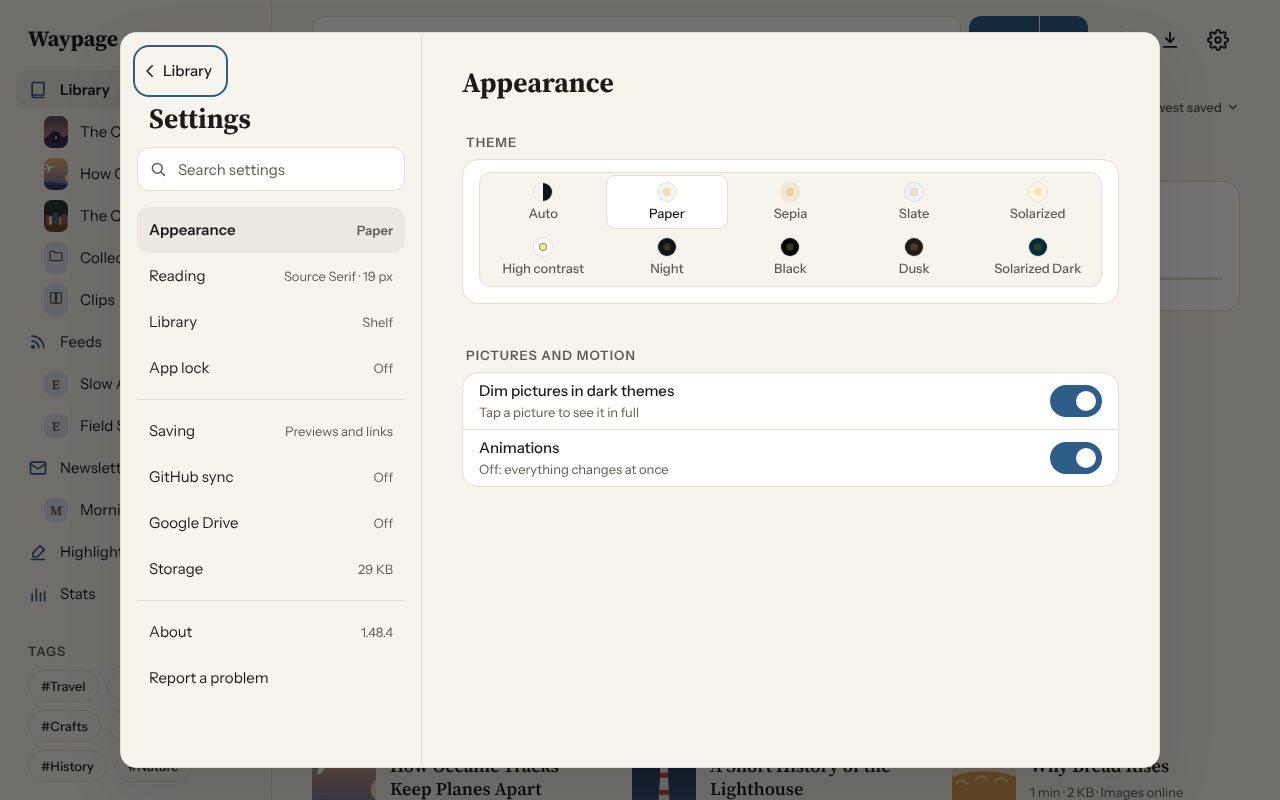
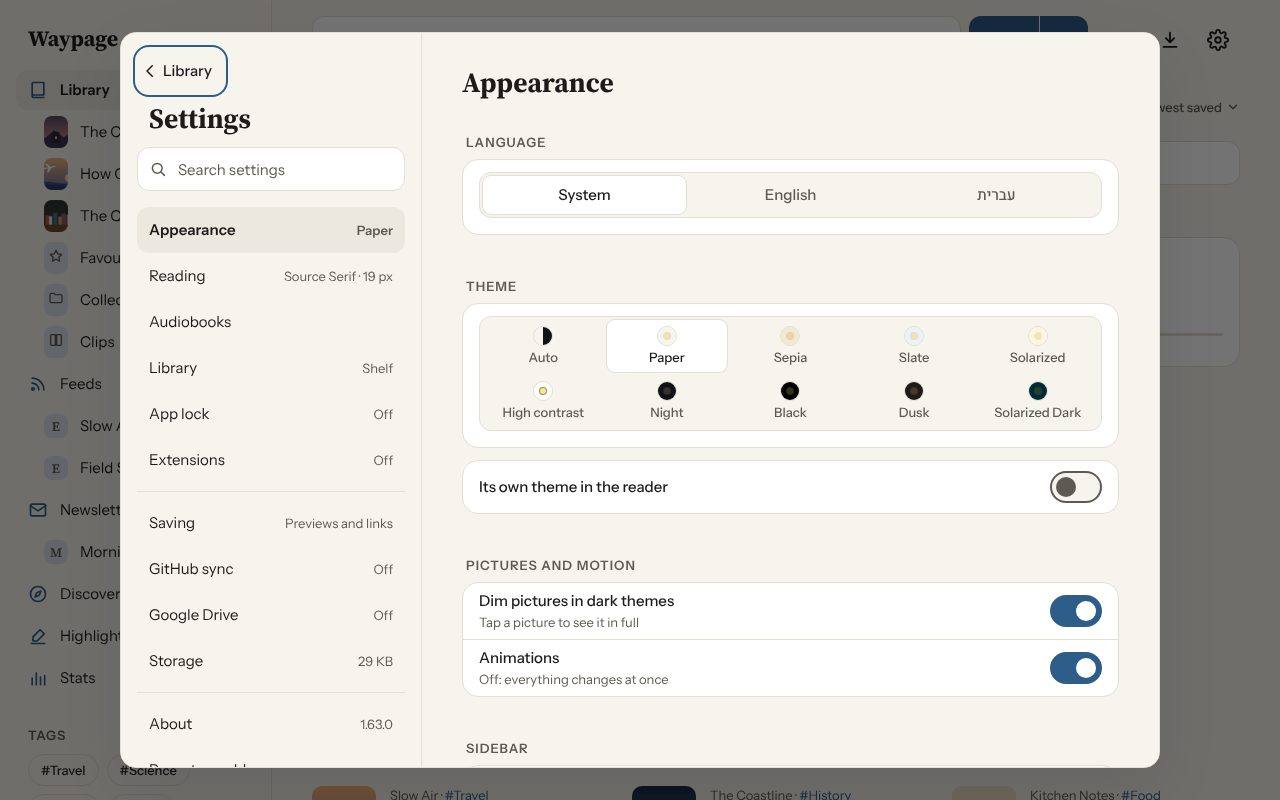
Release 1.63.0: Waypage in Hebrew
Claude-Session: https://claude.ai/code/session_01CFeKrm5qVwMVQBvXeW9dd4

diff --git a/index.html b/index.html
@@ -9,14 +9,14 @@
   <link rel="manifest" href="manifest.json">
   <link rel="icon" href="icon.svg" type="image/svg+xml">
   <link rel="apple-touch-icon" href="icons/apple-touch-icon.png">
-  <script src="src/keel/errlog.js?v=1.62.0" data-key="waypage.log" data-keep="60" data-console></script>
-  <script src="src/boot.js?v=1.62.0"></script>
-  <script src="src/keel/i18n.js?v=1.62.0"></script>
-  <script src="src/language.js?v=1.62.0"></script>
+  <script src="src/keel/errlog.js?v=1.63.0" data-key="waypage.log" data-keep="60" data-console></script>
+  <script src="src/boot.js?v=1.63.0"></script>
+  <script src="src/keel/i18n.js?v=1.63.0"></script>
+  <script src="src/language.js?v=1.63.0"></script>
   <link rel="preload" href="src/fonts/InstrumentSans.woff2" as="font" type="font/woff2" crossorigin>
   <link rel="preload" href="src/fonts/SourceSerif4.woff2" as="font" type="font/woff2" crossorigin>
-  <link rel="stylesheet" href="src/fonts.css?v=1.62.0">
-  <link rel="stylesheet" href="src/styles.css?v=1.62.0">
+  <link rel="stylesheet" href="src/fonts.css?v=1.63.0">
+  <link rel="stylesheet" href="src/styles.css?v=1.63.0">
 </head>
 <body>
   <div class="app" id="libraryView">
@@ -439,55 +439,55 @@
     </div>
   </section>
 
-  <script src="src/keel/platform.js?v=1.62.0"></script>
-  <script src="src/platform.js?v=1.62.0"></script>
-  <script src="src/keel/motion.js?v=1.62.0"></script>
-  <script src="src/motion.js?v=1.62.0"></script>
-  <script src="src/vendor/Readability.js?v=1.62.0"></script>
-  <script src="src/store.js?v=1.62.0"></script>
-  <script src="src/save.js?v=1.62.0"></script>
-  <script src="src/feeds.js?v=1.62.0"></script>
-  <script src="src/discover-list.js?v=1.62.0"></script>
-  <script src="src/discover.js?v=1.62.0"></script>
-  <script src="src/backup.js?v=1.62.0"></script>
-  <script src="src/imports.js?v=1.62.0"></script>
-  <script src="src/dict.js?v=1.62.0"></script>
-  <script src="src/extensions.js?v=1.62.0"></script>
-  <script src="src/keel/github.js?v=1.62.0"></script>
-  <script src="src/sync.js?v=1.62.0"></script>
-  <script src="src/keel/drive.js?v=1.62.0"></script>
-  <script src="src/keel/releases.js?v=1.62.0"></script>
-  <script src="src/drive.js?v=1.62.0"></script>
-  <script src="src/keel/qr.js?v=1.62.0"></script>
-  <script src="src/stats.js?v=1.62.0"></script>
-  <script src="src/activity.js?v=1.62.0"></script>
-  <script src="src/epub.js?v=1.62.0"></script>
-  <script src="src/files.js?v=1.62.0"></script>
-  <script src="src/listen.js?v=1.62.0"></script>
-  <script src="src/pdf.js?v=1.62.0"></script>
-  <script src="src/pptx.js?v=1.62.0"></script>
-  <script src="src/reader.js?v=1.62.0"></script>
-  <script src="src/ink.js?v=1.62.0"></script>
-  <script src="src/notes.js?v=1.62.0"></script>
-  <script src="src/app.js?v=1.62.0"></script>
-  <script src="src/app-reading.js?v=1.62.0"></script>
-  <script src="src/app-cards.js?v=1.62.0"></script>
-  <script src="src/app-downloads.js?v=1.62.0"></script>
-  <script src="src/app-search.js?v=1.62.0"></script>
-  <script src="src/app-draw.js?v=1.62.0"></script>
-  <script src="src/app-jobs.js?v=1.62.0"></script>
-  <script src="src/app-reader.js?v=1.62.0"></script>
-  <script src="src/app-ink.js?v=1.62.0"></script>
-  <script src="src/app-pentest.js?v=1.62.0"></script>
-  <script src="src/app-library.js?v=1.62.0"></script>
-  <script src="src/app-saving.js?v=1.62.0"></script>
-  <script src="src/app-places.js?v=1.62.0"></script>
-  <script src="src/app-discover.js?v=1.62.0"></script>
-  <script src="src/app-settings.js?v=1.62.0"></script>
-  <script src="src/app-extensions.js?v=1.62.0"></script>
-  <script src="src/app-listen.js?v=1.62.0"></script>
-  <script src="src/app-lock.js?v=1.62.0"></script>
-  <script src="src/app-car.js?v=1.62.0"></script>
-  <script src="src/app-start.js?v=1.62.0"></script>
+  <script src="src/keel/platform.js?v=1.63.0"></script>
+  <script src="src/platform.js?v=1.63.0"></script>
+  <script src="src/keel/motion.js?v=1.63.0"></script>
+  <script src="src/motion.js?v=1.63.0"></script>
+  <script src="src/vendor/Readability.js?v=1.63.0"></script>
+  <script src="src/store.js?v=1.63.0"></script>
+  <script src="src/save.js?v=1.63.0"></script>
+  <script src="src/feeds.js?v=1.63.0"></script>
+  <script src="src/discover-list.js?v=1.63.0"></script>
+  <script src="src/discover.js?v=1.63.0"></script>
+  <script src="src/backup.js?v=1.63.0"></script>
+  <script src="src/imports.js?v=1.63.0"></script>
+  <script src="src/dict.js?v=1.63.0"></script>
+  <script src="src/extensions.js?v=1.63.0"></script>
+  <script src="src/keel/github.js?v=1.63.0"></script>
+  <script src="src/sync.js?v=1.63.0"></script>
+  <script src="src/keel/drive.js?v=1.63.0"></script>
+  <script src="src/keel/releases.js?v=1.63.0"></script>
+  <script src="src/drive.js?v=1.63.0"></script>
+  <script src="src/keel/qr.js?v=1.63.0"></script>
+  <script src="src/stats.js?v=1.63.0"></script>
+  <script src="src/activity.js?v=1.63.0"></script>
+  <script src="src/epub.js?v=1.63.0"></script>
+  <script src="src/files.js?v=1.63.0"></script>
+  <script src="src/listen.js?v=1.63.0"></script>
+  <script src="src/pdf.js?v=1.63.0"></script>
+  <script src="src/pptx.js?v=1.63.0"></script>
+  <script src="src/reader.js?v=1.63.0"></script>
+  <script src="src/ink.js?v=1.63.0"></script>
+  <script src="src/notes.js?v=1.63.0"></script>
+  <script src="src/app.js?v=1.63.0"></script>
+  <script src="src/app-reading.js?v=1.63.0"></script>
+  <script src="src/app-cards.js?v=1.63.0"></script>
+  <script src="src/app-downloads.js?v=1.63.0"></script>
+  <script src="src/app-search.js?v=1.63.0"></script>
+  <script src="src/app-draw.js?v=1.63.0"></script>
+  <script src="src/app-jobs.js?v=1.63.0"></script>
+  <script src="src/app-reader.js?v=1.63.0"></script>
+  <script src="src/app-ink.js?v=1.63.0"></script>
+  <script src="src/app-pentest.js?v=1.63.0"></script>
+  <script src="src/app-library.js?v=1.63.0"></script>
+  <script src="src/app-saving.js?v=1.63.0"></script>
+  <script src="src/app-places.js?v=1.63.0"></script>
+  <script src="src/app-discover.js?v=1.63.0"></script>
+  <script src="src/app-settings.js?v=1.63.0"></script>
+  <script src="src/app-extensions.js?v=1.63.0"></script>
+  <script src="src/app-listen.js?v=1.63.0"></script>
+  <script src="src/app-lock.js?v=1.63.0"></script>
+  <script src="src/app-car.js?v=1.63.0"></script>
+  <script src="src/app-start.js?v=1.63.0"></script>
 </body>
 </html>

diff --git a/src/app.js b/src/app.js
@@ -13,7 +13,7 @@
 // app-cards, app-downloads, app-search, app-draw, app-jobs, app-reader,
 // app-library, app-saving, app-places, app-settings, app-lock, and
 // app-start, which runs last and starts things up.
-const APP_VERSION = "1.62.0";
+const APP_VERSION = "1.63.0";
 window.Waypage.version = APP_VERSION;
 
 const C = window.Waypage;

diff --git a/sw.js b/sw.js
@@ -7,7 +7,7 @@
 // release's changed files new URLs. Third-party requests are never touched.
 //
 // ASSETS is also exactly what tools/build-www.js copies into the app.
-const CACHE = "waypage-v130";
+const CACHE = "waypage-v131";
 const ASSETS = [
   "./", "./index.html",
   "./src/fonts.css", "./src/styles.css", "./src/reader.css",

diff --git a/CHANGELOG.md b/CHANGELOG.md
@@ -2,6 +2,28 @@
 
 All notable changes to Carry-on. Newest first.
 
+## [1.63.0] - 2026-11-15
+
+### Added
+- Exporting a collection has a Chapter headers switch. Turn it off and each chapter starts straight with its text, without the clip's name, site and author on top, for a story whose chapters already open with their own titles. The book's contents still list every chapter by name. Works for EPUB, HTML, PDF and Markdown, and it's remembered.
+- Exporting a collection can change the exported book without touching your clips. Pick the first and last chapter to export only part of it. Book details sets the book's title and author. Clean up the text lists paragraphs that repeat in many chapters (a site's "Previous Chapter / Next Chapter", a Patreon plea) for you to leave out, and has find and replace with Edit clips' rules (`A/N: *` removes an author's note). The title, author and clean-up are kept for the next export of that collection.
+- Hebrew: every screen, button and message in Hebrew, right to left, with Heebo and Frank Ruhl Libre for its letters. Settings › Appearance › Language picks System, English or עברית; System follows the phone.
+- Record timings, in Settings › Report a problem: turn it on, do the slow thing, and the report carries what stalled and which taps waited.
+
+### Changed
+- A collection's EPUB names the first chapter's author as the book's author, not the site.
+- Animations now run on keel's shared motion engine, the same one LifeLog and new apps use. They move exactly as before.
+- A big book opens at the chapter you were reading and loads the rest behind it: a 47 MB book shows your page in about 2 s instead of 10 on a slow phone. Narrate, Find and Highlights wait the few seconds until the whole book is in.
+- A big book's Contents opens at once: the chapters around yours come first, the rest as you scroll (a 900-chapter list held the screen for half a second).
+- Leaving a big book no longer stalls on the way back to the library.
+- Taps in a big book no longer freeze the phone for seconds: the chapters far from the screen are kept out of what the phone reads from the page.
+
+### Fixed
+- A book opened from its collection in the reader (or by swiping to it) showed the book before's pictures, or blanks, until it was reopened from the library.
+- A book's first pictures (its cover) could stay blank when it was opened right after another book.
+- A very long book couldn't be scrolled or jumped past a point (chapter 600 of 840 in one), and a jump could slide a few screens once there.
+- Leaving a book while Narrate was going could forget your place and reopen it near the start.
+
 ## [1.62.0] - 2026-11-15
 
 ### Added
